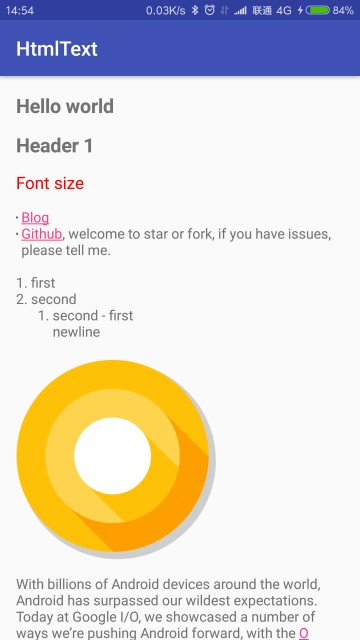
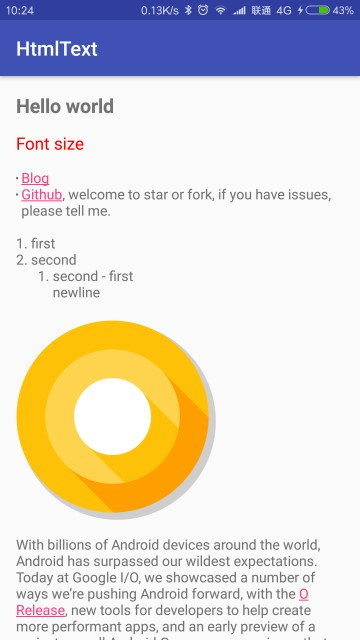
Update README.md

diff --git a/sample/src/main/res/raw/sample.html b/sample/src/main/res/raw/sample.html
@@ -1,5 +1,4 @@
 <h2>Hello world</h2>
-<h2>Header 1</h2>
 <p><font size='6' color='#FF0000'>Font size</font></p>
 <ul>
     <li><a href="http://www.jianshu.com/users/3231579893ac">Blog</a></li>

diff --git a/sample/src/main/java/me/wcy/htmltext/sample/MainActivity.java b/sample/src/main/java/me/wcy/htmltext/sample/MainActivity.java
@@ -1,7 +1,9 @@
 package me.wcy.htmltext.sample;
 
+import android.content.Intent;
 import android.graphics.Bitmap;
 import android.graphics.drawable.Drawable;
+import android.net.Uri;
 import android.os.Bundle;
 import android.support.v4.content.ContextCompat;
 import android.support.v7.app.AppCompatActivity;
@@ -34,11 +36,12 @@ public class MainActivity extends AppCompatActivity {
 
         textView = (TextView) findViewById(R.id.text);
         textView.setMovementMethod(LinkMovementMethod.getInstance());
-        String example = getExample();
-        HtmlText.from(example)
+        String sample = getSample();
+        HtmlText.from(sample)
                 .setImageLoader(new HtmlImageLoader() {
                     @Override
                     public void loadImage(String url, final Callback callback) {
+                        // Glide sample, you can also use other image loader
                         Glide.with(MainActivity.this)
                                 .load(url)
                                 .asBitmap()
@@ -79,22 +82,27 @@ public class MainActivity extends AppCompatActivity {
                 .setOnTagClickListener(new OnTagClickListener() {
                     @Override
                     public void onImageClick(List<String> imageUrlList, int position) {
-                        Toast.makeText(MainActivity.this, "image click, position: "
-                                + position + ", url: " + imageUrlList.get(position), Toast.LENGTH_SHORT).show();
+                        Toast.makeText(MainActivity.this, "image click, position: " + position + ", url: " + imageUrlList.get(position), Toast.LENGTH_SHORT).show();
                     }
 
                     @Override
                     public void onLinkClick(String url) {
-                        Toast.makeText(MainActivity.this, "url click: "
-                                + url, Toast.LENGTH_SHORT).show();
+                        Toast.makeText(MainActivity.this, "url click: " + url, Toast.LENGTH_SHORT).show();
+                        try {
+                            Intent intent = new Intent(Intent.ACTION_VIEW);
+                            intent.setData(Uri.parse(url));
+                            startActivity(intent);
+                        } catch (Exception e) {
+                            e.printStackTrace();
+                        }
                     }
                 })
                 .into(textView);
     }
 
-    private String getExample() {
+    private String getSample() {
         try {
-            InputStream is = getResources().openRawResource(R.raw.example);
+            InputStream is = getResources().openRawResource(R.raw.sample);
             BufferedReader reader = new BufferedReader(new InputStreamReader(is));
             StringBuilder sb = new StringBuilder();
             String line;
